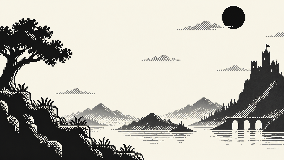
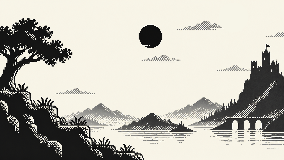
templates/looks: art for the 2D preview scene in each 2D look
Every 2D look and variant has the scene's beats in art made to its own
brief: pixel and its 8bit, monochrome, detailed, luminous, coarse and
topdown, cartoon-2d and its watercolor, storybook and rubber-hose.
cartoon-2d and watercolor have art of their own (they borrowed
storybook's), and topdown has a floor, a path and a cliff tile set and
sprites seen from above. The ground strips the old row of sprites stood
on and pixel's import sidecars go: the scene's ground is a tile set and
stage.ts writes the import settings.

Edited by hand, as AUTHORED.md records: monochrome's backdrop has its sun
moved clear of the HUD, and storybook's and rubber-hose's crate and
lantern lose a strip of a neighbouring sprite.

Amp-Thread-ID: https://ampcode.com/threads/T-01a1ea24-99a1-750f-b1c6-6bed2a3de2b1

Changed region(s): [[0.4789, 0.1562, 0.5915, 0.3125], [0.7606, 0.0312, 0.8732, 0.1875]]

diff --git a/templates/looks/AUTHORED.md b/templates/looks/AUTHORED.md
@@ -7,13 +7,24 @@ lived in the art samples (`examples/art-*`, deleted on 2026-11-06) and is
 kept here, beside the look's preset, under the look's slug and, for a
 variant, the variant's name:
 
-- `<slug>/art/`: a look's own sprites: pixel's beats (the art sample's
-  16-bit set, with its import settings) and pixel-3d-hybrid's hero and
-  pine, the pixel sprites it stands in a 3D set.
-- `<slug>/<variant>/art/`: the 2D sample beats drawn in a variant (hero,
-  tree, crate, lantern, ground, backdrop): pixel's 8bit, coarse, detailed,
-  luminous and monochrome, cartoon-2d's storybook and rubber-hose, and
-  painterly-3d's expressionist, lush and luminous-layers.
+- `<slug>/art/` and `<slug>/<variant>/art/`: the 2D preview scene's beats
+  drawn in a 2D look or variant (pixel and its 8bit, coarse, detailed,
+  luminous, monochrome and topdown; cartoon-2d and its watercolor,
+  storybook and rubber-hose): hero, tree, crate, lantern, slime, gem, bush,
+  heart, platform, the ground's tile set (`tiles`), the tree line (`mid`)
+  and the far layer (`backdrop`); topdown has a floor, a path and a cliff
+  tile set (`grass`, `path`, `wall`) in place of the last four.
+  `preview/2d/tools/art.ts` makes them from each look's art brief.
+  Edited by hand after that: monochrome's `backdrop.png` (the earlier
+  sample's, its sun moved from the top right corner to the open sky, clear
+  of the HUD), and storybook's and rubber-hose's `crate.png` and
+  `lantern.png` (the earlier sample's, a strip of a neighbouring sprite
+  cut from the top of each).
+- `pixel-3d-hybrid/art/`: its hero and pine, the pixel sprites it stands
+  in a 3D set.
+- `painterly-3d/<variant>/art/`: the 2D sample beats drawn in its
+  expressionist, lush and luminous-layers variants (hero, tree, crate,
+  lantern, ground, backdrop).
 - `<slug>/models/` and `<slug>/<variant>/models/`: the 3D beats built in the
   style (`type model` text), for neon-vector, low-resolution-3d and toy-3d's
   paper variant.
